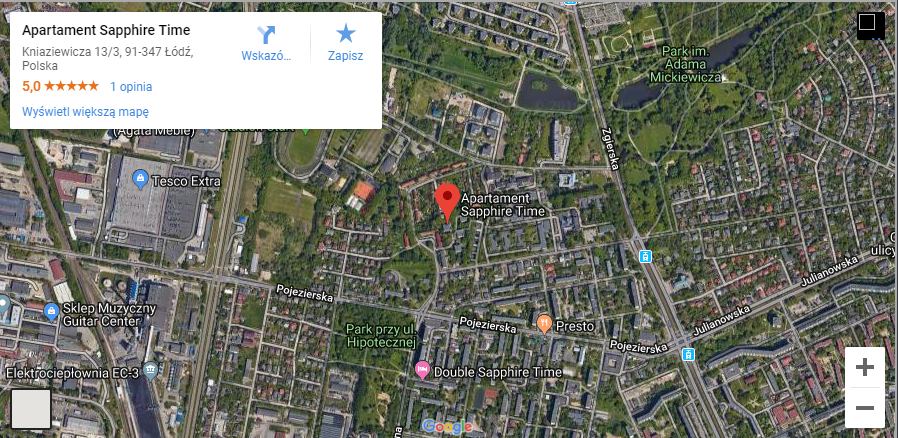
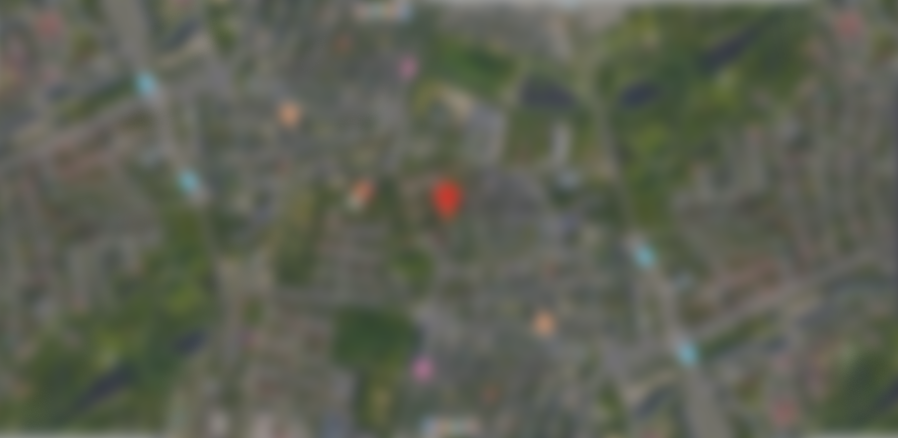
cover photo edited

diff --git a/css/main.css b/css/main.css
@@ -956,8 +956,6 @@ a:focus {
   top: 0;
   bottom: 0;
   cursor: not-allowed;
-  -webkit-filter: blur(5px);
-          filter: blur(5px);
   -webkit-transition: 0.3s ease-in-out;
   transition: 0.3s ease-in-out;
 }

diff --git a/css/main.scss b/css/main.scss
@@ -679,7 +679,6 @@ a:focus{
         position: absolute;
         top: 0; bottom: 0;
         cursor: not-allowed;
-        filter: blur(5px);
         transition: 0.3s ease-in-out;
     }
 }
